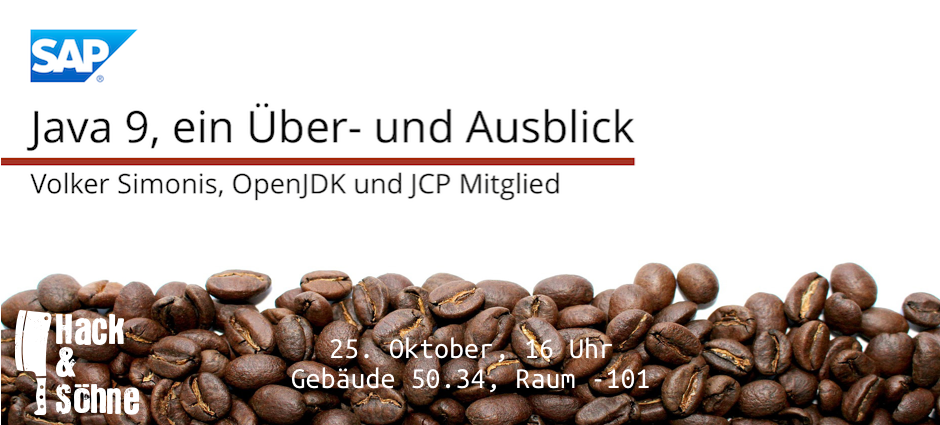
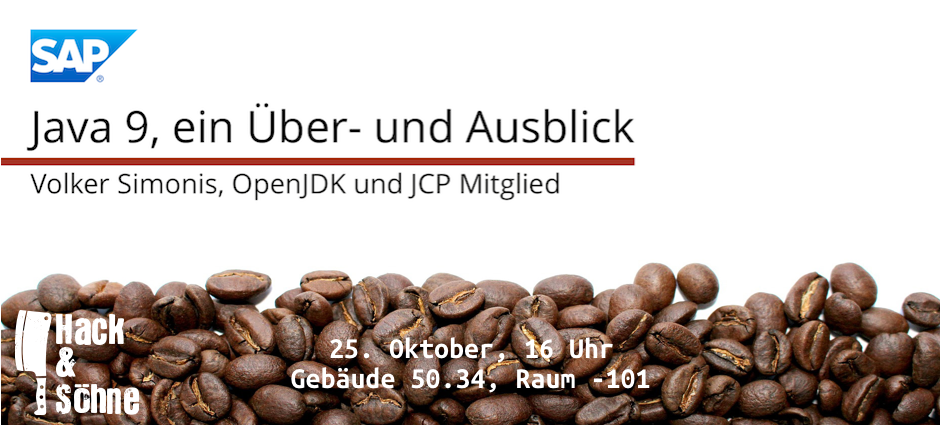
added cover image for java9 talk

diff --git a/src/java9.html b/src/java9.html
@@ -11,7 +11,7 @@
     <meta property="og:type" content="business.business" />
     <meta property="og:title" content="Hack & Söhne" />
     <meta property="og:description" content="We have a passion for technology and work hard to make the latest advancements accessible through hackathons, tech-talks and bootcamps.">
-    <meta property="og:image" content="https://hackundsoehne.de/img/cover.png" />
+    <meta property="og:image" content="https://hackundsoehne.de/img/java9-talk-cover.png" />
     <meta name="author" content="Hack & Söhne">
     <meta name="description" content="We have a passion for technology and work hard to make the latest advancements accessible through hackathons, tech-talks and bootcamps.">
     <meta name="keywords" content="hack, und, söhne, soehne, hackathon, karlsruhe, ideen, ideathon, programmieren, event, coding, code">
